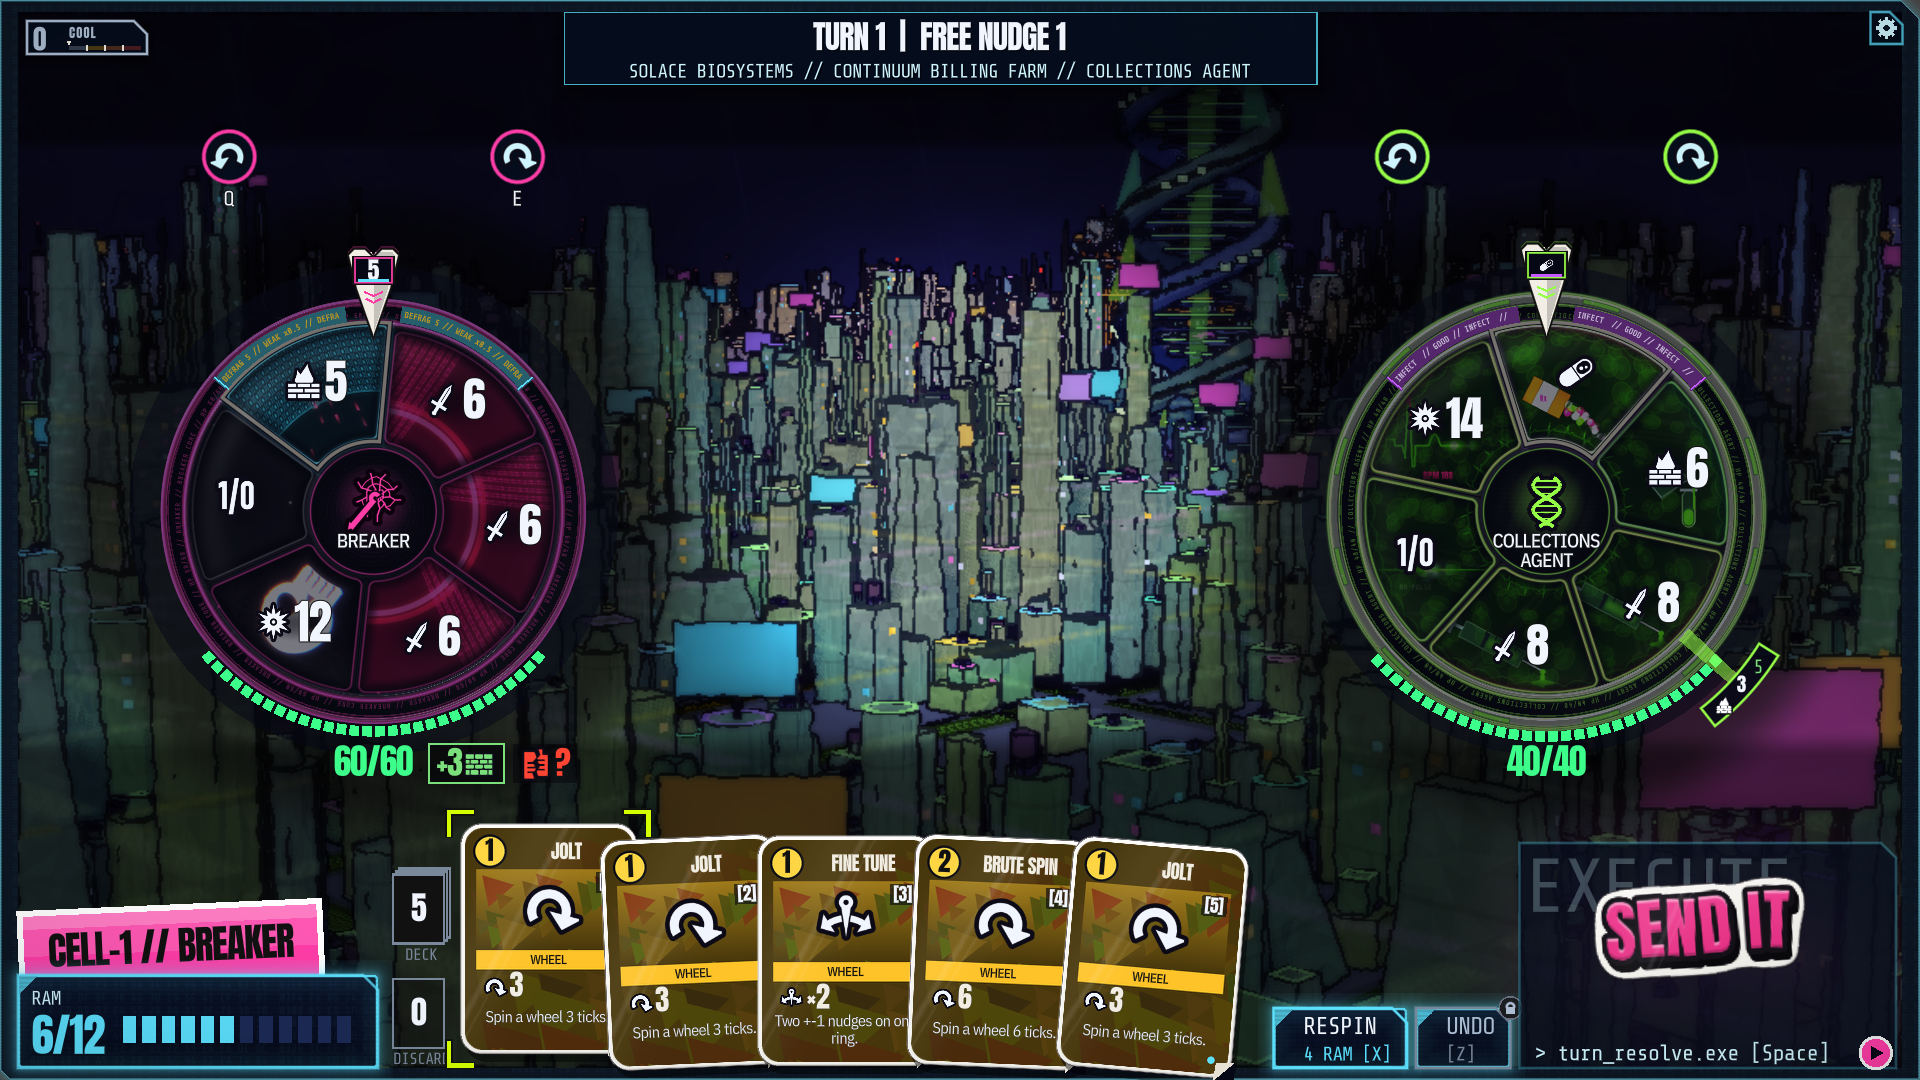
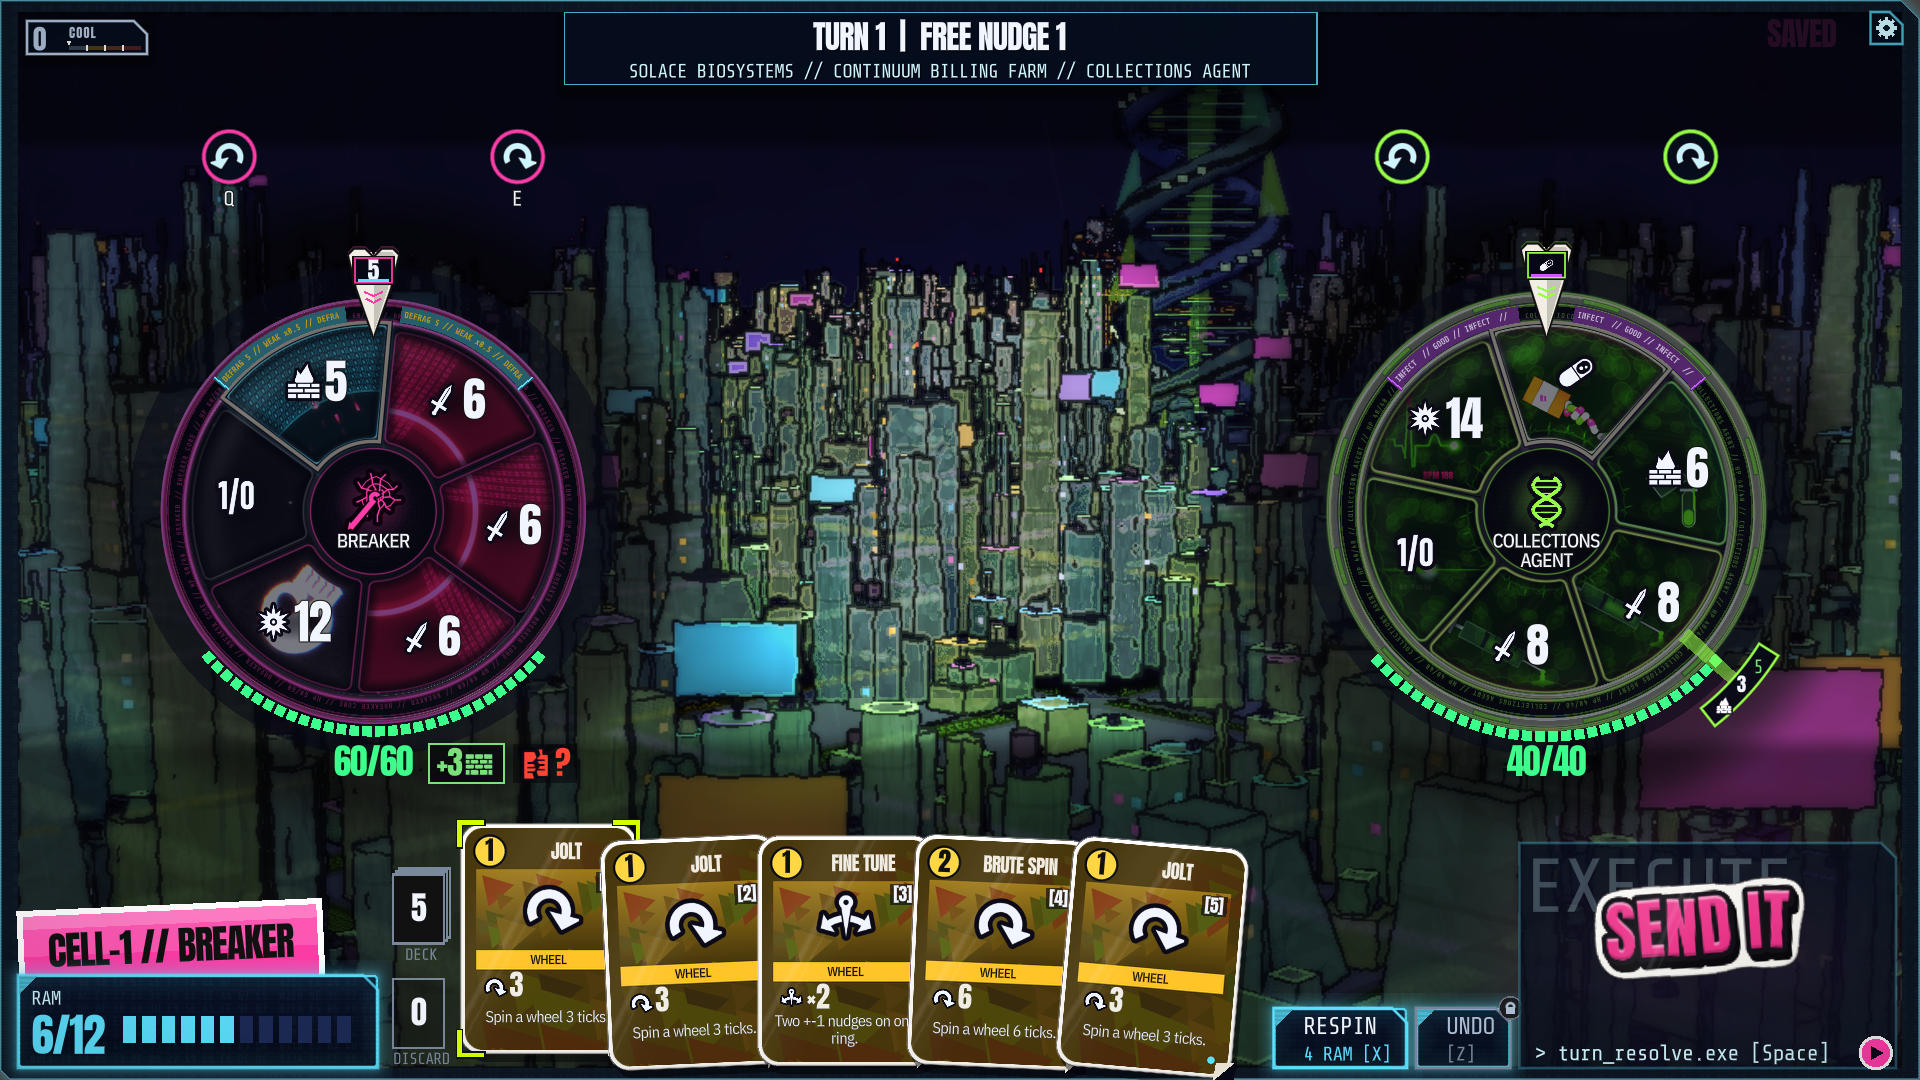
ART-3 combat B2 c: the Site block lit by its own neon (windows x2, a corp-colour rim, the street catching it, the rest x0.55), focus brackets frame the lifted card

diff --git a/docs/DECISIONS.md b/docs/DECISIONS.md
@@ -31,6 +31,24 @@ superseded instead.
   events.
 
 ## Implementation decisions
+### 2026-10-06 — B2 c — the Site block lit by its own neon; focus brackets on the lifted card
+Re-check of B2 b (aa815dde; relayed by the orchestrator): boss start, the Meridian / Halcyon Site blocks, the fanned
+hand, the 12 px hub name and the grade approved. Two fixes (resend `B2_b_site_start.png`, Solace, 1:1 1080p, and
+`B2_crop_hand.png`). Test: `test_b2_combat_composition` (`test_a_site_block_is_lit_by_its_own_neon_not_a_flat_lift`,
+`test_card_focus_is_lime_corner_brackets_and_a_lift_never_a_lime_fill`).
+- **(1) The Site block's light** (`combat_backdrop.gdshader` `subject_on`, set by `CombatBackdrop` for a Site close-up):
+  no flat lift (it whitened Solace's facades). Inside the block's focus its unlit facades sit at `subject_base` 0.72,
+  its windows (the ungraded city's lit pixels from `window_from` 0.45) x `backdrop_site_window_gain` 2, a rim of the
+  corp colour (`Palette.corp_color`) on the block's luminance edges inside its screen box (x `backdrop_site_rim_gain`
+  0.9), and the street under its foot catching that colour (x `backdrop_site_street_gain` 0.5, fading down over 12 %
+  of the view's height and to the sides); the rest stays x0.55 (`backdrop_site_focus_dim` 0.45; B2 b had 0.55, i.e.
+  x0.45). `backdrop_site_focus_lift` stays for the HQ / stills path only.
+- **(2) Focus brackets** draw under the card face's own draw transform (they always did: the B2 b crop's corners sat
+  OFFSET outside the control): they now sit on the die-cut's edge (`grow(CC_EDGE * s - StyleBoxBrackets.OFFSET)`), so
+  they frame the lifted card as drawn and move with its 18 px lift and hover growth.
+- **Orbital's Site stays busy** (accepted by the art director): logged against the per-fight backdrops slice (the
+  queued unique backdrops are its fix; the procedural city has no distinct Site building for the block to stand out).
+
 ### 2026-10-06 — B2 b — combat composition, the art director's fixes
 The art-pass review of B2 (29260839; relayed by the orchestrator). Approved as built: the hub (emblem + accent glow,
 statuses as chips), the hub plate's removal, the wax underlines on the HP / result chips, the boss helix framing,
